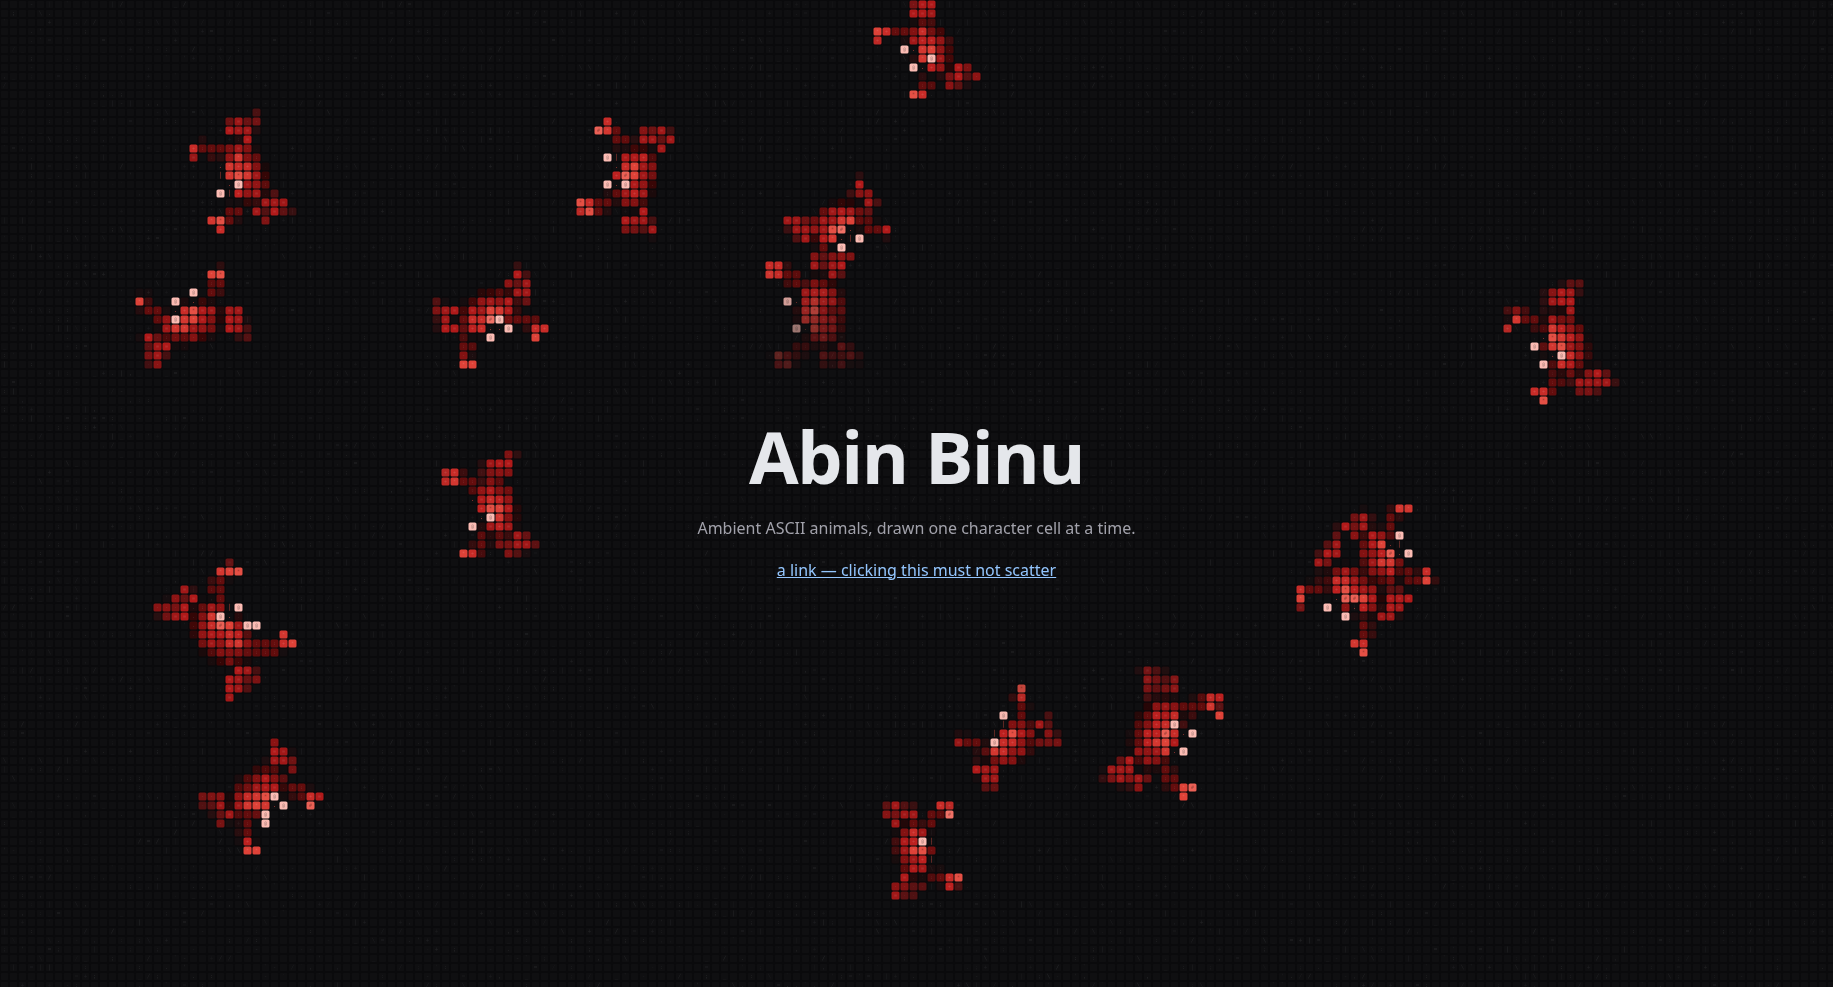
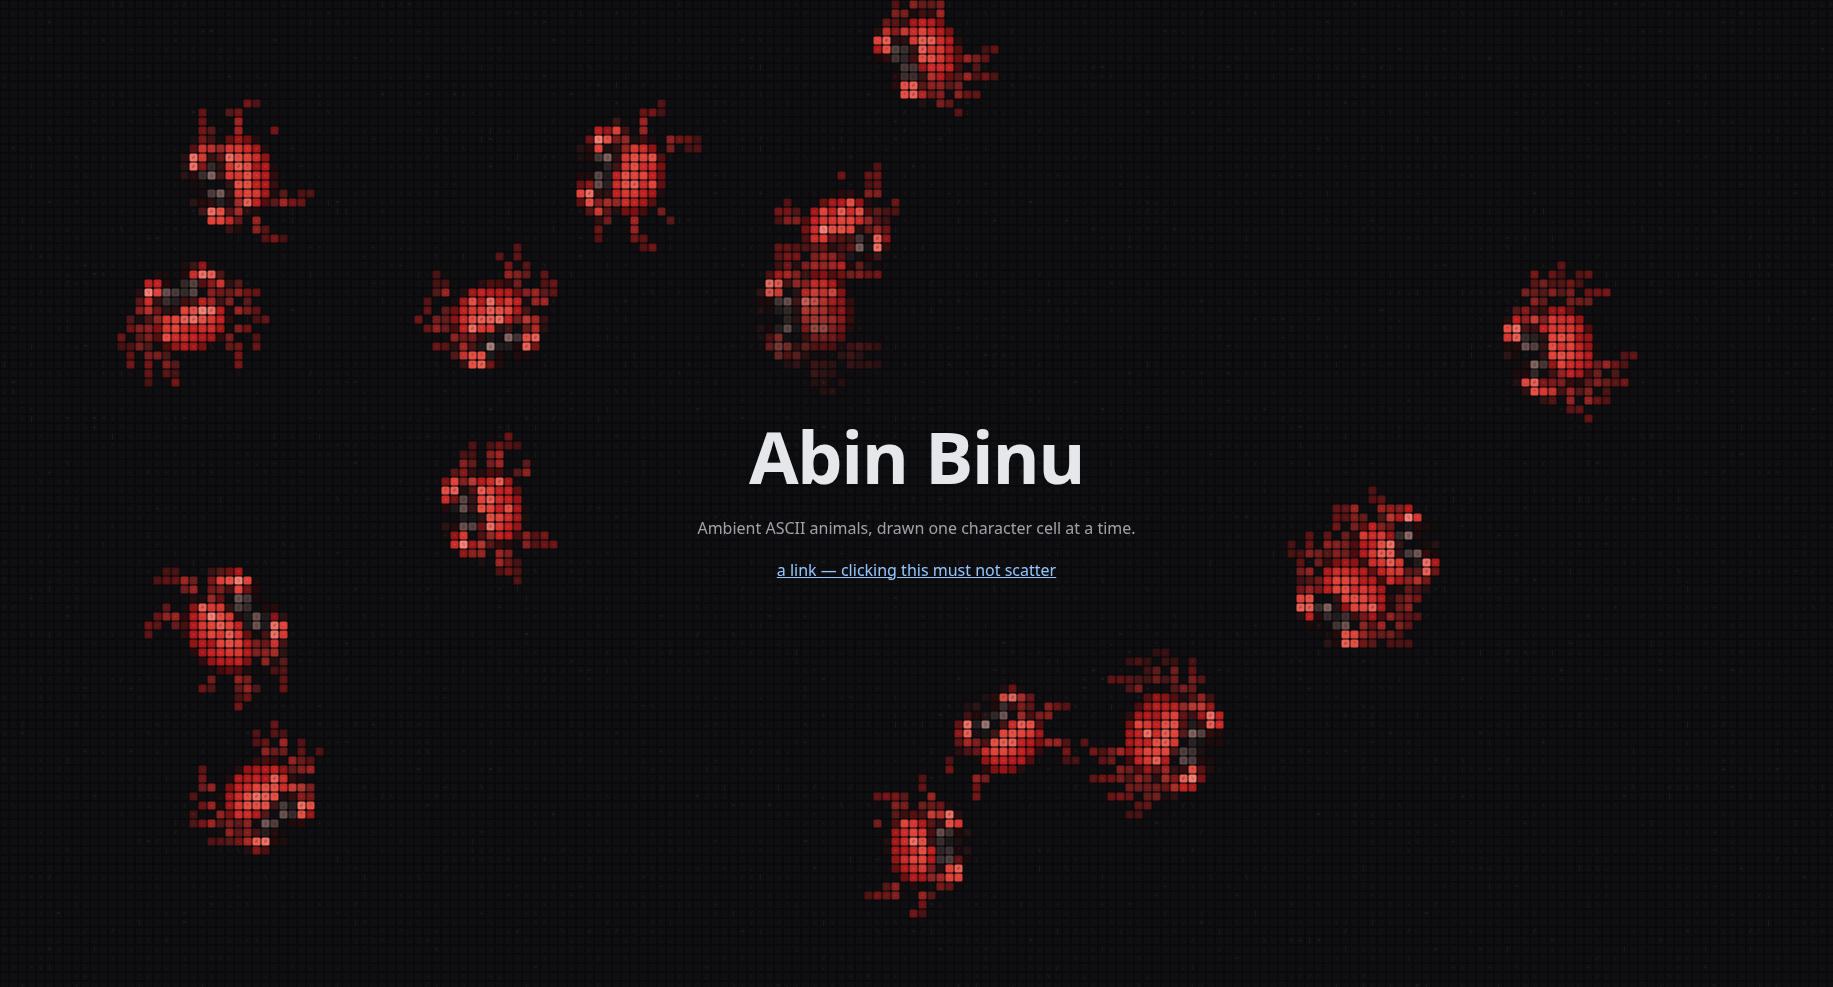
Frog eyes and crab redesign
- Frog: eyes are pale green bulges with a dark pupil placed so it lands on a
  whole cell (the gold eyes looked odd).
- Crab: rebuilt as a shore crab. Wide shell, flatter in front with small
  teeth, domed shading, central and cervical grooves, pale speckles; bright
  eyes on short stalks; claws (arm, wrist, palm, fixed and movable finger
  with dark tips) folded in front, swinging up and opening when startled;
  four two-segment walking legs per side, fanned around the shell and
  stepping in an alternating gait. The faintest leg fringe is skipped so
  thin legs read crisp. Claw and leg evaluation is culled by region.

diff --git a/src/animals/crab.ts b/src/animals/crab.ts
@@ -1,12 +1,17 @@
 import type { AnimalDef, Entity, Stamper, WorldView } from './types';
 import { placeAtEdge } from './common';
-import { capsule, clamp01, ellipse, G, smooth, softCov } from '../engine/shapes';
+import { aaCov, capsule, clamp01, ellipse, smooth, softCov } from '../engine/shapes';
+import { vnoise2 } from '../math/noise';
 import { hash2, range } from '../math/rng';
 import { angleDiff, approach } from '../math/vec2';
 
-// Spec §7.7 / §9.7. Faces -v and scuttles sideways (±u) with an alternating gait; claws go up when startled.
-const RADIUS = 6.2;
+// Spec §7.7 / §9.7, reworked to read as a real shore crab: a wide shell with front teeth, a groove and
+// pale speckles; eyes as dark beads on short stalks; big claws folded in front (dark fingertips) that
+// swing up and open when startled; four jointed walking legs per side that step in a gait.
+// Faces -v and scuttles sideways (±u).
+const RADIUS = 7.6;
 const GAIT_HZ = 6;
+const LEGS = 4;
 
 interface CrabData {
   dir: number; // +1 walks toward +u (right), -1 toward -u
@@ -20,10 +25,43 @@ let pal = 0;
 let up = 0;
 let gait = 0;
 let walking = false;
-const stalk = new Float32Array(4);
+// Claw joints (right side; mirrored), set per crab from `up`.
+let wristX = 0;
+let wristY = 0;
+let palmX = 0;
+let palmY = 0;
+let palmRot = 0;
+let tipX = 0; // fixed finger tip
+let tipY = 0;
+let dacX = 0; // movable finger tip
+let dacY = 0;
+// Leg joints per side: [rootX, rootY, kneeX, kneeY, tipX, tipY] × LEGS, for the right (+) and left (−) side.
+const legR = new Float32Array(LEGS * 6);
+const legL = new Float32Array(LEGS * 6);
 
-function legCov(d: number): number {
-  return smooth(0.3 + 0.42, 0.3 - 0.08, d);
+function legs(side: number, out: Float32Array): void {
+  for (let k = 0; k < LEGS; k++) {
+    // Fanned around the shell: front pair angled forward, back pair angled back.
+    const ph = gait + (k + (side > 0 ? 0 : 1)) * Math.PI; // alternating gait
+    const lift = walking ? Math.max(0, Math.sin(ph)) : 0;
+    const swing = walking ? Math.cos(ph) * 0.18 : 0;
+    const a = -0.3 + 0.4 * k + swing;
+    const ca = Math.cos(a);
+    const sa = Math.sin(a);
+    const rx = 2.9 * ca;
+    const ry = 0.1 + 2.0 * sa;
+    const reach = 2.15 - 0.35 * lift;
+    const kx = rx + reach * ca;
+    const ky = ry + reach * sa - 0.25;
+    const b = a + 0.95; // bent back at the knee
+    const len = 1.7 * (1 - 0.3 * lift); // a lifted tip looks shorter from above
+    out[k * 6] = rx;
+    out[k * 6 + 1] = ry;
+    out[k * 6 + 2] = kx;
+    out[k * 6 + 3] = ky;
+    out[k * 6 + 4] = kx + len * Math.cos(b);
+    out[k * 6 + 5] = ky + len * Math.sin(b);
+  }
 }
 
 function cellFn(u: number, v: number, col: number, row: number): void {
@@ -31,58 +69,88 @@ function cellFn(u: number, v: number, col: number, row: number): void {
   const ax = Math.abs(u);
   const side = u < 0 ? -1 : 1;
 
-  // Shell.
-  const eb = ellipse(u, v, 0, 0, 3.0, 2.0, 0);
-  if (eb < 1.12) {
-    const tx = u;
-    const ty = v + 0.7;
-    let sh = 0.3 + 0.42 * (1 - clamp01(Math.sqrt(tx * tx * 0.4 + ty * ty) / 2.2)); // lighter top centre
-    sh -= 0.5 * smooth(0.68, 1.0, eb) * sh; // rim
-    sh += (hash2(Math.floor(u * 1.6) + 3, Math.floor(v * 1.6) + cur.id * 41) - 0.5) * 0.2; // mottling
-    const hx = u + 0.9;
-    const hy = v + 0.9;
-    if (hx * hx + hy * hy < 0.2) sh = 0.97; // highlight
-    // Eyes: bright tiles at (±0.9, -2.4).
-    S.stamp(col, row, S.tileKey(pal, sh), softCov(eb), z + 0.4);
-    if (eb < 0.9) return;
+  // ---- eyes: dark beads on short stalks ----
+  const dStalk = capsule(ax, v, 0.75, -1.85, 0.9, -2.55 - 0.25 * up);
+  const ex = ax - 0.92;
+  const ey = v + 2.75 + 0.3 * up;
+  const dEye = Math.sqrt(ex * ex + ey * ey);
+  if (dEye < 0.9) {
+    // A bright bead (dark eyes vanish on the dark background).
+    S.stamp(col, row, S.tileKey(pal, 0.97), aaCov(dEye, 0.3), z + 0.7);
+    if (dEye < 0.35) return;
   }
-  const ex = ax - 0.9;
-  const ey = v + 2.4 + 0.2 * up;
-  if (ex * ex + ey * ey < 0.2) {
-    S.stamp(col, row, S.tileKey(pal, 0.97), 1, z + 0.6);
-    return;
+  if (dStalk < 0.5) S.stamp(col, row, S.tileKey(pal, 0.55), aaCov(dStalk, 0.16), z + 0.65);
+
+  // ---- shell: wide, flatter in front, with small teeth along the front corners ----
+  const sv = v < 0 ? v / 0.86 : v;
+  let es = ellipse(u, sv, 0, 0.1, 3.25, 2.3, 0);
+  const ang = Math.atan2(v - 0.1, ax);
+  if (ang < -0.2 && ang > -1.25) es -= 0.045 * Math.max(0, Math.sin(ang * 16)); // anterolateral teeth
+  if (es < 1.12) {
+    const cx = u;
+    const cy = v + 0.4;
+    let sh = 0.46 + 0.32 * (1 - clamp01(Math.sqrt(cx * cx * 0.35 + cy * cy) / 2.1)); // domed: lighter centre
+    if (ax < 0.16 && v > -0.6 && v < 1.4) sh -= 0.12; // central groove
+    if (Math.abs(v - 0.15 - 0.25 * ax) < 0.13 && ax > 0.4 && ax < 1.6) sh -= 0.1; // cervical groove
+    if (v < -1.55 && ax < 0.55) sh -= 0.12; // notch between the eyes
+    if (hash2(Math.floor(u * 1.7) + 5, Math.floor(v * 1.7) + cur.id * 41) > 0.9 && es < 0.8) sh += 0.16; // speckles
+    sh -= 0.4 * smooth(0.72, 1.02, es) * sh; // rim
+    sh += (vnoise2(u * 0.9 + cur.seed, v * 0.9) - 0.5) * 0.12;
+    S.stamp(col, row, S.tileKey(pal, sh), softCov(es), z + 0.4);
+    if (es < 0.88) return;
   }
 
-  // Claws: arm capsule and a pincer of two fingers with a notch; raised and opened when startled.
-  const lift = -0.7 * up;
-  const open = 0.35 + 0.45 * up;
-  const pv = -3.3 + lift;
-  const dArm = capsule(ax, v, 2.2, -1.2, 3.4, -2.6 + lift * 0.8);
-  const f1 = ellipse(ax, v, 3.3, pv - 0.35, 0.42, 0.85, -open);
-  const f2 = ellipse(ax, v, 3.95, pv - 0.1, 0.38, 0.75, open);
-  const pinch = Math.min(f1, f2);
-  const clawCov = Math.max(smooth(0.45 + 0.42, 0.45 - 0.08, dArm), softCov(pinch));
-  if (clawCov > 0.05) {
-    let sh = 0.48 + 0.25 * (1 - clamp01(pinch)) - 0.2 * smooth(0.75, 1.05, pinch);
-    if (pinch < 1 && v < pv - 0.6) sh += 0.15; // lighter fingertips
-    S.stamp(col, row, S.tileKey(pal, sh), clawCov, z + 0.3);
-    if (clawCov > 0.6) return;
+  // ---- claws: arm → wrist → palm, with a fixed finger and a movable finger (front only) ----
+  if (v < -0.6) {
+    const dArm = capsule(ax, v, 2.3, -1.25, wristX, wristY);
+    const dWrist = capsule(ax, v, wristX, wristY, palmX, palmY);
+    const ep = ellipse(ax, v, palmX, palmY, 1.1, 0.8, palmRot);
+    const dFix = capsule(ax, v, palmX - 0.55 * Math.cos(palmRot), palmY - 0.55 * Math.sin(palmRot), tipX, tipY);
+    const dDac = capsule(ax, v, palmX - 0.35 * Math.cos(palmRot) - 0.35 * Math.sin(palmRot), palmY - 0.35 * Math.sin(palmRot) + 0.35 * Math.cos(palmRot) * -1, dacX, dacY);
+    const cArm = Math.max(aaCov(dArm, 0.42), aaCov(dWrist, 0.48));
+    const cPalm = softCov(ep);
+    const cFing = Math.max(aaCov(dFix, 0.26), aaCov(dDac, 0.22));
+    const cc = Math.max(cArm, cPalm, cFing);
+    if (cc > 0.05) {
+      let sh: number;
+      if (cFing > cPalm && cFing > cArm) {
+        const tip = Math.min(
+          (ax - tipX) * (ax - tipX) + (v - tipY) * (v - tipY),
+          (ax - dacX) * (ax - dacX) + (v - dacY) * (v - dacY),
+        );
+        sh = tip < 0.35 ? 0.16 : 0.62; // dark fingertips
+      } else if (cPalm >= cArm) {
+        sh = 0.6 + 0.25 * (1 - clamp01(ep)) - 0.22 * smooth(0.7, 1.0, ep);
+      } else {
+        sh = 0.52 + 0.12 * (1 - clamp01(Math.min(dArm, dWrist) / 0.45));
+      }
+      sh += (hash2(Math.floor(u * 2) + 9, Math.floor(v * 2) + cur.id) - 0.5) * 0.08;
+      S.stamp(col, row, S.tileKey(pal, sh), cc, z + 0.45);
+      if (cc > 0.6) return;
+    }
   }
 
-  // Legs: 3 per side; tips lift (the leg shortens 20%) in an alternating gait.
+  // ---- walking legs: two segments each, bent back at the knee (at the sides only) ----
+  if (ax < 2.2) return;
+  const L = side > 0 ? legR : legL;
   let best = 9;
-  for (let k = 0; k < 3; k++) {
-    const phase = gait + (k + (side > 0 ? 1 : 0)) * Math.PI;
-    const l = walking ? Math.max(0, Math.sin(phase)) : 0;
-    const rx = 2.6;
-    const ry = -0.4 + 0.8 * k;
-    const tx = rx + (4.4 - rx) * (1 - 0.2 * l);
-    const ty = ry + (0.2 + 0.9 * k - ry) * (1 - 0.2 * l) + 0.25 * k;
-    const dl = capsule(ax, v, rx, ry, tx, ty);
-    if (dl < best) best = dl;
+  let seg2 = false;
+  for (let k = 0; k < LEGS; k++) {
+    const o = k * 6;
+    const d1 = capsule(ax, v, L[o], L[o + 1], L[o + 2], L[o + 3]);
+    const d2 = capsule(ax, v, L[o + 2], L[o + 3], L[o + 4], L[o + 5]);
+    if (d1 < best) {
+      best = d1;
+      seg2 = false;
+    }
+    if (d2 < best) {
+      best = d2;
+      seg2 = true;
+    }
   }
-  const lc = legCov(best);
-  if (lc > 0.05) S.stamp(col, row, S.tileKey(pal, 0.38 + 0.1 * (1 - clamp01(best / 0.4))), lc, z + 0.1);
+  const lc = aaCov(best, seg2 ? 0.28 : 0.36);
+  // Skip the faintest fringe: thin legs read crisp instead of furry.
+  if (lc > 0.32) S.stamp(col, row, S.tileKey(pal, seg2 ? 0.48 : 0.56), lc, z + 0.1);
 }
 
 function nearEdge(e: Entity, world: WorldView, m: number): boolean {
@@ -107,7 +175,7 @@ export const crab: AnimalDef = {
     e.x = range(rng, 60, Math.max(61, world.w - 60));
     e.y = range(rng, 60, Math.max(61, world.h - 60));
     e.heading = range(rng, 0, Math.PI * 2); // body facing
-    e.scale = range(rng, 1.05, 1.45);
+    e.scale = range(rng, 1.2, 1.5);
     e.speed = range(rng, 40, 80);
     e.seed = range(rng, 0, 1000);
     e.phase = range(rng, 0, 10);
@@ -196,14 +264,19 @@ export const crab: AnimalDef = {
     up = d.up;
     gait = e.phase;
     walking = e.state === 'walk' || e.state === 'run';
+    // Claws folded in front, pointing inward; startled, they swing up and out and open.
+    wristX = 3.35 + 0.3 * up;
+    wristY = -2.35 - 0.6 * up;
+    palmX = 2.35 + 1.0 * up;
+    palmY = -3.5 - 1.0 * up;
+    palmRot = 0.55 - 1.2 * up;
+    const open = 0.25 + 0.55 * up;
+    tipX = palmX - 1.45 * Math.cos(palmRot);
+    tipY = palmY - 1.45 * Math.sin(palmRot);
+    dacX = palmX - 1.35 * Math.cos(palmRot - open) - 0.2;
+    dacY = palmY - 1.35 * Math.sin(palmRot - open) + 0.15;
+    legs(1, legR);
+    legs(-1, legL);
     s.forEachCell(e, RADIUS, cellFn);
-    // Eye stalks: glyph-only '|'.
-    for (let side = -1; side <= 1; side += 2) {
-      stalk[0] = side * 0.85;
-      stalk[1] = -1.7;
-      stalk[2] = side * 0.9;
-      stalk[3] = -2.05 - 0.2 * up;
-      s.stampLine(e, stalk, 2, pal, 0.6, e.z + 0.5, G['|']);
-    }
   },
 };

diff --git a/src/animals/frog.ts b/src/animals/frog.ts
@@ -25,7 +25,6 @@ let S: Stamper;
 let cur: Entity;
 let data: FrogData;
 let pal = 0;
-let palEye = 0;
 let blotch = 0; // per-frog noise offset
 // Leg joints (local cells, right side; mirrored), updated per frog from the leg extension.
 let kneeX = 3.3;
@@ -50,13 +49,14 @@ function cellFn(u: number, v: number, col: number, row: number): void {
   const ey = v + 2.6;
   const dEye = Math.sqrt(ex * ex + ey * ey);
   if (dEye < 1.0) {
-    let p = palEye;
-    let sh = 0.62 + 0.33 * (1 - clamp01(dEye / 0.8)); // bright dome
-    if (data.blink > 0) {
-      p = pal;
-      sh = 0.55;
-    } else if ((ex * ex) / 0.1 + (ey * ey) / 0.03 < 1) sh = 0.04; // pupil
-    S.stamp(col, row, S.tileKey(p, sh), aaCov(dEye, 0.8), z + 0.6);
+    // Pale green bulge; the pupil sits toward the front-inner side so it lands on a whole cell.
+    let sh = 0.82 + 0.1 * (1 - clamp01(dEye / 0.6));
+    const px = ax - 1.18;
+    const py = v + 2.78;
+    if (dEye > 0.85) sh = 0.3;
+    else if (data.blink > 0) sh = 0.5;
+    else if (px * px + py * py < 0.18) sh = 0.03; // pupil
+    S.stamp(col, row, S.tileKey(pal, sh), aaCov(dEye, 0.8), z + 0.6);
     if (dEye < 0.7) return;
   }
 
@@ -147,7 +147,6 @@ export const frog: AnimalDef = {
   edge: 'soft',
   palettes: {
     skin: ['#04140a', '#0a2e16', '#145c2a', '#1f8a3c', '#34b553', '#6fd987', '#b8f2c6', '#f0fff4'],
-    eye: ['#1a1203', '#4a3407', '#8a6410', '#c9971c', '#f0c95a', '#fff4cf'],
   },
   pal: {},
 
@@ -252,7 +251,6 @@ export const frog: AnimalDef = {
     cur = e;
     data = e.data as FrogData;
     pal = this.pal.skin;
-    palEye = this.pal.eye;
     blotch = (e.seed % 97) * 1.37;
     // Legs fold in a Z while sitting; mid-air they stretch straight back.
     const l = Math.max(0, data.leg);
